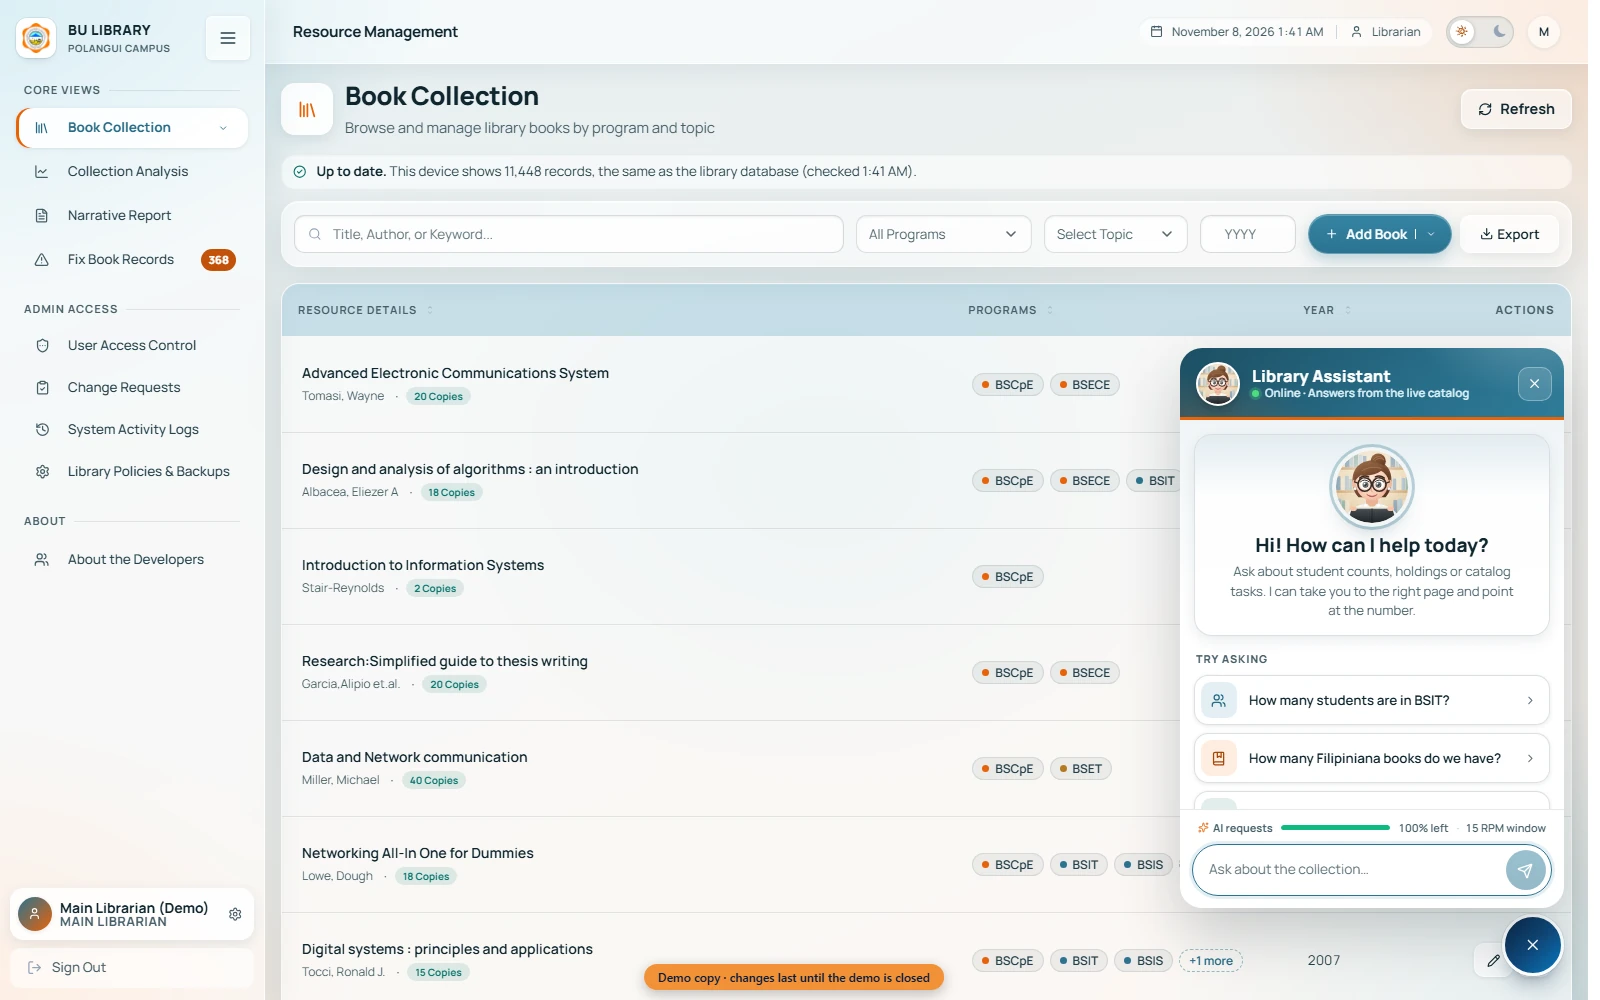
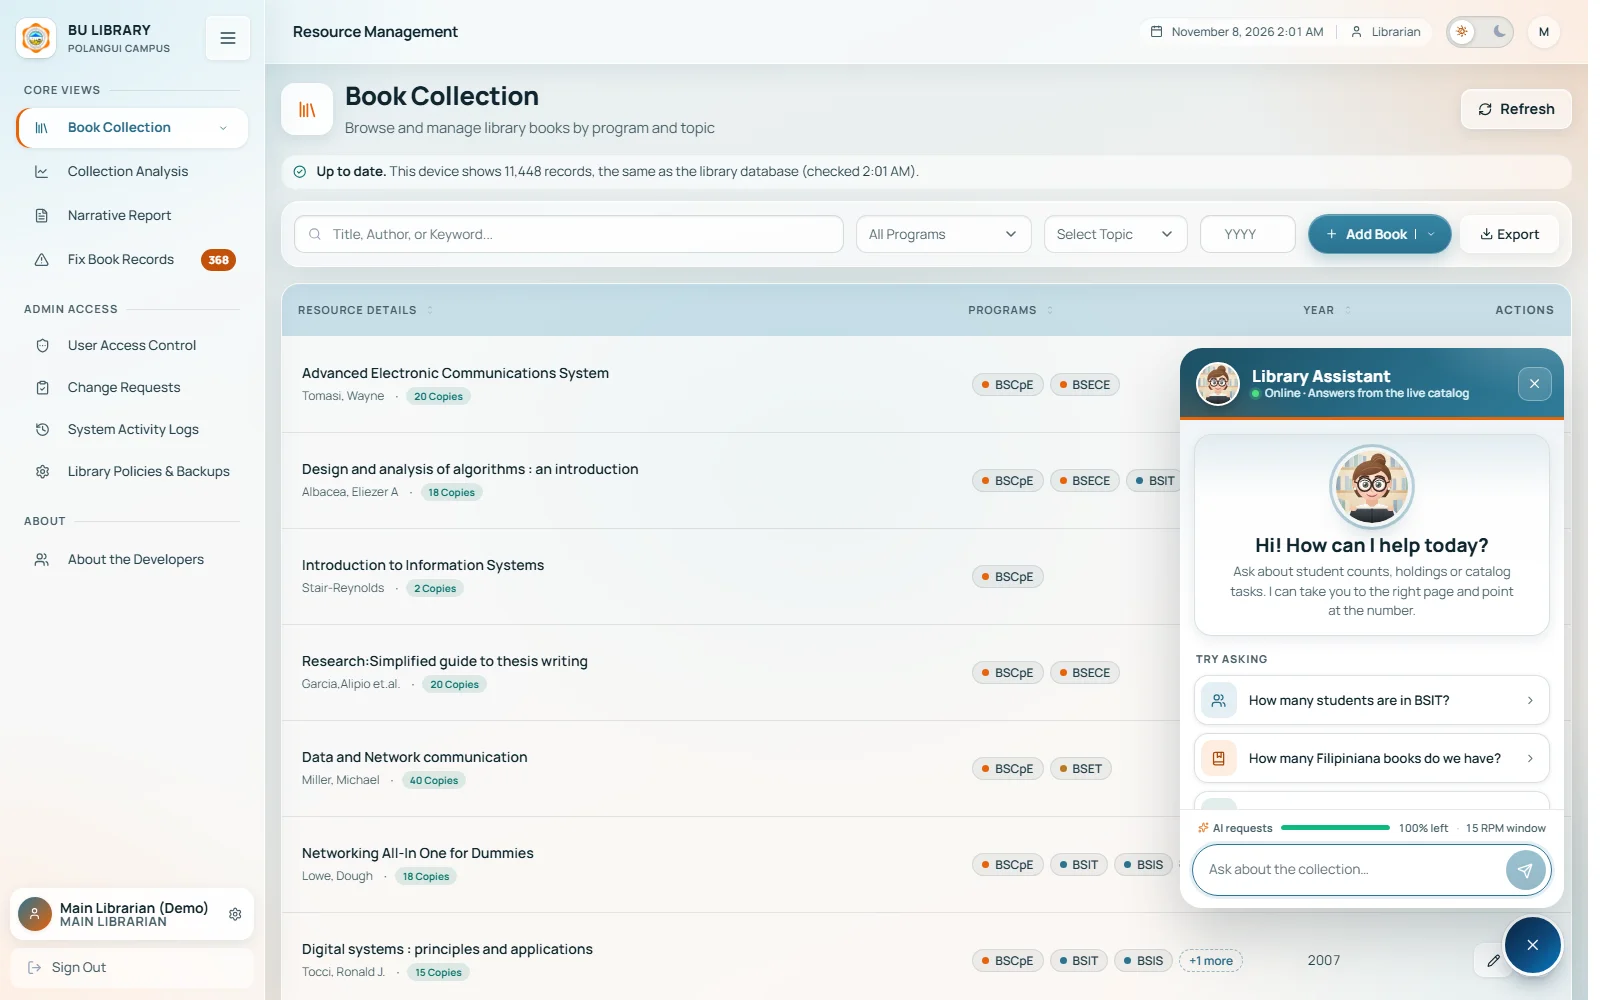
fix: refine organization link and English project captures

Changed region(s): [[0.4062, 0.961, 0.5938, 1.0], [0.5312, 0.155, 0.5625, 0.186]]

diff --git a/index.html b/index.html
@@ -534,18 +534,18 @@
                     <span class="thumb__ph halftone halftone--dense" data-initials="TSA" aria-hidden="true"></span>
                   </div>
                   <div>
-                    <h3 class="organization__title">TechSystems Association (TSA)</h3>
+                    <h3 class="organization__title">TechSystems Association</h3>
                     <p class="organization__school">Bicol University Polangui</p>
                   </div>
                 </div>
-                <p class="organization__role">Senior Member, Programming Committee &middot; Project Lead, <!-- TODO: update if DevTayo moves to a custom domain --><a class="organization__link" href="https://devtayo.tsa-bu.workers.dev" target="_blank" rel="noopener noreferrer" aria-label="DevTayo (opens in a new tab)">DevTayo <svg class="icon" aria-hidden="true"><use href="#i-external" /></svg></a></p>
+                <p class="organization__role">Senior Member, Programming Committee &middot; Project Lead, DevTayo</p>
                 <ul class="pills" aria-label="Roles and focus">
                   <li class="pill">Programming Committee</li>
                   <li class="pill">Project Lead</li>
                 </ul>
                 <ul class="bullets">
                   <li>Supports the Programming Committee's development work and guides newer members through technical projects.</li>
-                  <li>Leads DevTayo, a portfolio directory and teammate matchmaker connecting Bicol University students for projects.</li>
+                  <li>Leads <!-- TODO: update if DevTayo moves to a custom domain --><a class="organization__link" href="https://devtayo.tsa-bu.workers.dev" target="_blank" rel="noopener noreferrer" aria-label="DevTayo (opens in a new tab)">DevTayo<svg class="icon" aria-hidden="true"><use href="#i-external" /></svg></a>, a portfolio directory and teammate matchmaker connecting Bicol University students for projects.</li>
                   <li>Guides DevTayo's direction as super administrator, helping students showcase work and connect with collaborators.</li>
                 </ul>
               </li>

diff --git a/css/styles.css b/css/styles.css
@@ -2370,9 +2370,15 @@ html.js .fade-up {
 .organization__link {
   display: inline-flex;
   align-items: center;
-  gap: 0.35rem;
+  gap: 0.25rem;
   font: inherit;
+  font-weight: 500;
+  color: rgb(var(--ink));
+  text-underline-offset: 0.2em;
+  text-decoration-color: rgb(var(--gray-400));
 }
+.organization__link .icon { width: 0.75em; height: 0.75em; }
+.organization__link:hover { text-decoration-color: currentColor; }
 @media (min-width: 760px) {
   .organizations { grid-template-columns: repeat(2, minmax(0, 1fr)); }
   .organization__role { min-height: 2.8em; }

diff --git a/js/images.js b/js/images.js
@@ -110,7 +110,7 @@ var IMAGES = {
           src: "assets/images/projects/argusph/06-mobile-app.webp",
           w: 1600,
           h: 1000,
-          alt: "Three refined phone mockups showing the ARGUSPH mobile redesign in Filipino: reporting home, incident map and Law Chat. Screens captured October 25, 2026.",
+          alt: "Three refined phone mockups showing the ARGUSPH app in English: reporting home, incident map and Law Chat. Uses archived English app screenshots.",
           caption: "Mobile app"
         }
       ]

diff --git a/assets/images/projects/CAPTURE-NOTES.md b/assets/images/projects/CAPTURE-NOTES.md
@@ -3,8 +3,8 @@
 Updated November 8, 2026.
 
 - ARGUSPH web UI: captured from the current local `ARGUSPH/admin` source. Auth and data were supplied only in the capture browser with synthetic records; screenshots explicitly say "Demo data / portfolio preview". No production records were changed. Login, overview, map and emergency broadcast were replaced.
-- ARGUSPH mobile UI: user approved reuse of the newer October 25, 2026 screenshots after the Android capture session remained locked. Source files: `ARGUSPH/scratch/m-home-fil.png`, `m-map-fil.png`, and `m-chat-fil.png`. These show the Filipino redesign. They are existing repo captures, not new build-47 captures.
-- Library UI: captured from `library_admin - Copy` using its built-in local defense demo, Firebase emulators and demo librarian. Login, book collection, Smart Scan, assistant and collection analysis were replaced; narrative report was added. The demo label remains visible. No production library data was changed.
+- ARGUSPH mobile UI: the user requested English after the Filipino gallery revision. This slide now reuses the archived English captures in `assets/images/_originals/projects/argusph/`: `06-mobile-home.png`, `54187026-4861-4e8a-b468-af74587a243a.jpg` (map), and `eda6636b-6dd4-408c-a942-4f2f434978de.jpg` (Law Chat). These predate the October 25 redesign and are not new build-47 captures. The refined handset frames are retained.
+- Library UI: captured from `library_admin - Copy` using its built-in local defense demo, Firebase emulators and demo librarian. Login, book collection, Smart Scan, assistant and collection analysis were replaced; narrative report was added. The orange demo-runner overlay is hidden only in the capture browser at the user's request. Screens remain local demo captures, not production validation. No production library data was changed.
 - SARO UI: retained original resident home, hazard form and assistant screens from `assets/images/_originals/projects/saro/`; rebuilt only their handset presentation.
 - Both mobile slides use `scripts/make-phone-slide.mjs`, 1600 x 1000, quality 90. Screenshot proportions are preserved. Slim metallic frames, matching inner/outer corner geometry and separated handsets replace the thick black overlapping frames.
 - Existing project logo assets are unchanged; logos are not UI screenshots.
